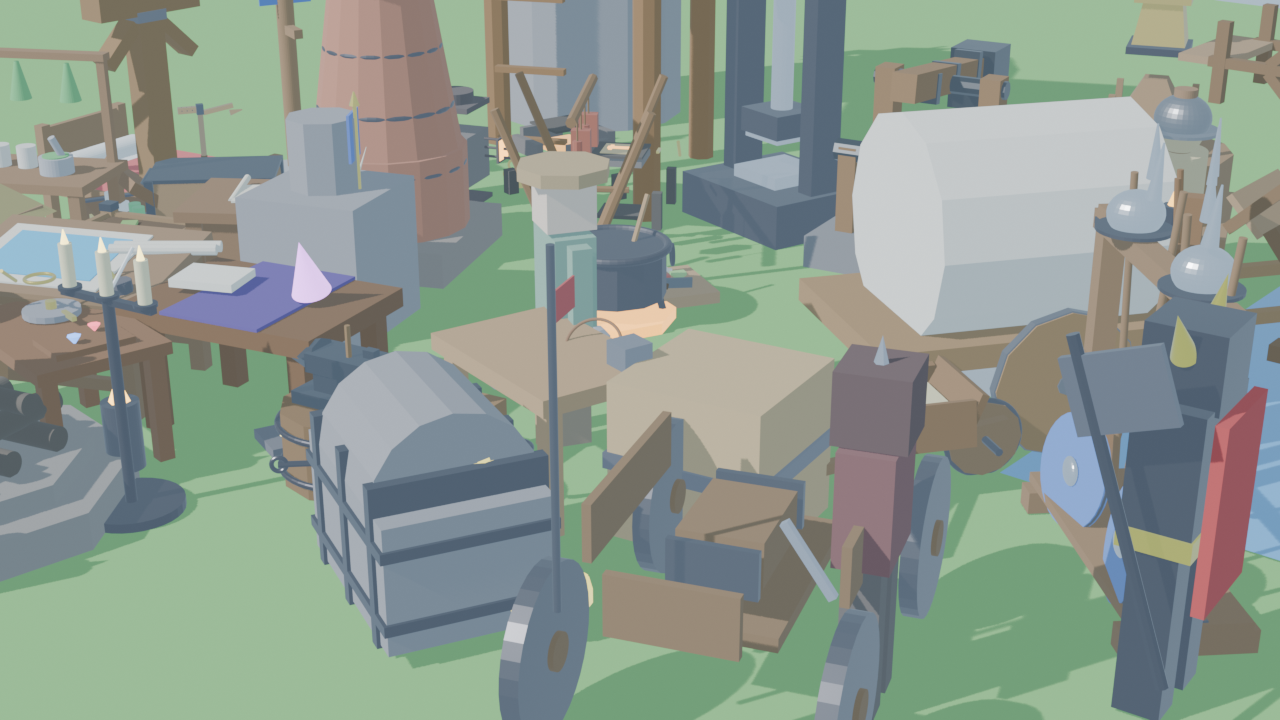
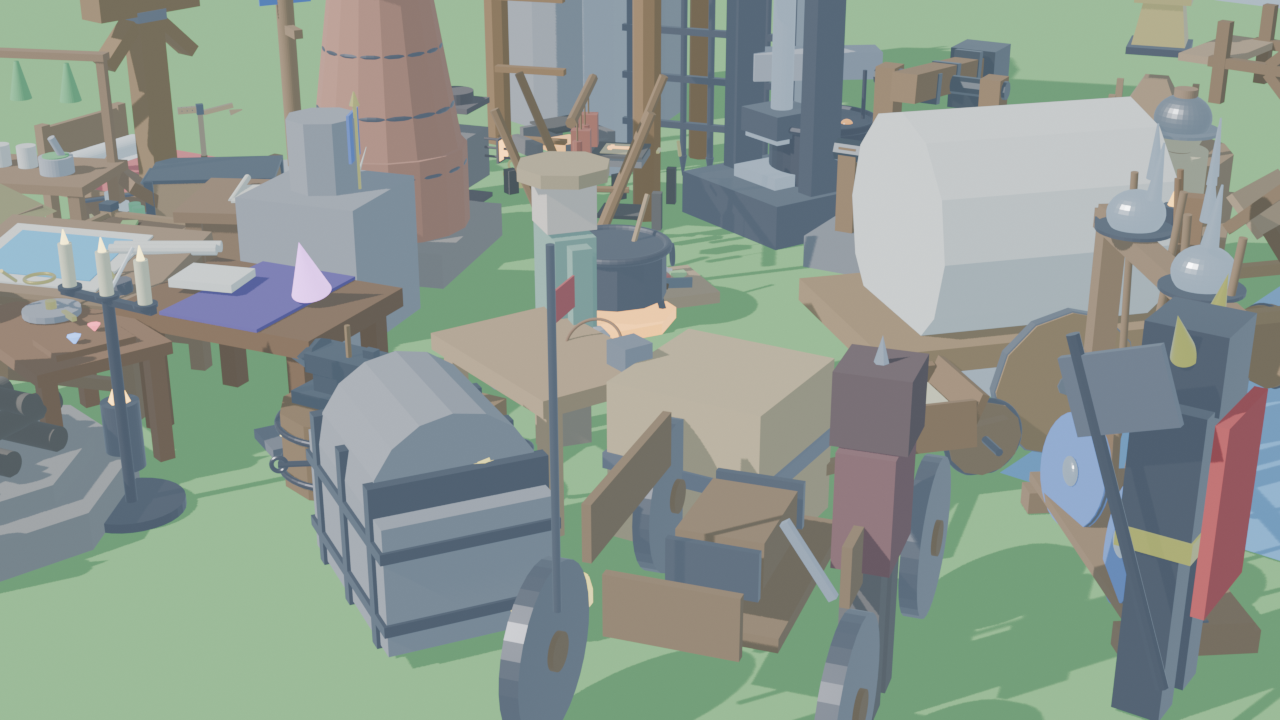
test(combat): add unit tests, update 61-asset diorama, and document Milestone 23 (#5)

diff --git a/tests/test_engine_vertical_slice.py b/tests/test_engine_vertical_slice.py
@@ -2242,7 +2242,101 @@ class TestEngineVerticalSlice(unittest.TestCase):
         self.assertEqual(beeswax, 0)
         self.assertEqual(candles, 9)
 
+    def test_milestone23_glb_assets(self):
+        """Verify binary glTF headers and integrity for Milestone 23 3D models."""
+        models_dir = os.path.join(os.path.dirname(__file__), "..", "assets", "models")
+        m23_models = ["catapult.glb", "pitch_cauldron.glb", "portcullis_gate.glb"]
+        for m in m23_models:
+            p = os.path.join(models_dir, m)
+            self.assertTrue(os.path.exists(p), f"Missing model {m}")
+            self.assertGreater(os.path.getsize(p), 1000, f"Model {m} is unusually small")
+            with open(p, "rb") as f:
+                header = f.read(4)
+                self.assertEqual(header, b"glTF", f"Model {m} does not have valid glTF magic header")
+
+    def test_siege_engine_ballistics(self):
+        """Verify Mangonel Catapult ballistics, range bounds, and incendiary shockwave."""
+        min_range = 15.0
+        max_range = 65.0
+        base_damage = 120.0
+        aoe_radius = 12.0
+        incendiary_bonus = 50.0
+
+        # Target within valid artillery range
+        target_dist = 40.0
+        in_range = (target_dist >= min_range and target_dist <= max_range)
+        self.assertTrue(in_range)
+
+        # Target too close (under minimum range)
+        target_close = 8.0
+        self.assertFalse(target_close >= min_range and target_close <= max_range)
+
+        # Damage calculation with incendiary fire boulder
+        is_incendiary = True
+        total_damage = base_damage + (incendiary_bonus if is_incendiary else 0.0)
+        self.assertEqual(total_damage, 170.0)
+        self.assertEqual(aoe_radius, 12.0)
+
+        # Ammo stock reload consumption
+        boulders_stock = 12
+        boulders_stock -= 1
+        self.assertEqual(boulders_stock, 11)
+
+    def test_pitch_cauldron_gate_defense(self):
+        """Verify Boiling Pitch Cauldron gatehouse defense and slowing aura."""
+        pitch_dps = 40.0
+        burn_duration = 15.0
+        puddle_radius = 6.0
+        slow_multiplier = 0.40 # 60% slow down
+
+        total_burn_potential = pitch_dps * burn_duration
+        self.assertEqual(total_burn_potential, 600.0)
+        self.assertEqual(puddle_radius, 6.0)
+        self.assertEqual(slow_multiplier, 0.40)
+
+        # Charges cycle & reheat
+        charges = 5
+        charges -= 1
+        is_boiling = False
+        reheat_timer = 45.0
+        self.assertEqual(charges, 4)
+        self.assertFalse(is_boiling)
+
+        # Reheat completes
+        reheat_timer = 0.0
+        if reheat_timer <= 0.0 and charges > 0:
+            is_boiling = True
+        self.assertTrue(is_boiling)
+
+    def test_portcullis_gate_crush_and_durability(self):
+        """Verify Portcullis Gate durability, blunt ramming resistance, and crush damage."""
+        max_hp = 500.0
+        current_hp = max_hp
+        crush_damage = 80.0
+
+        # Blunt ramming attack (e.g. 100 base blunt damage) gets -50% reduction
+        blunt_incoming = 100.0
+        blunt_multiplier = 0.50
+        damage_taken = blunt_incoming * blunt_multiplier
+        current_hp -= damage_taken
+        self.assertEqual(damage_taken, 50.0)
+        self.assertEqual(current_hp, 450.0)
+
+        # Pierce arrow volley gets -80% deflection
+        pierce_incoming = 50.0
+        pierce_multiplier = 0.20
+        pierce_damage = pierce_incoming * pierce_multiplier
+        current_hp -= pierce_damage
+        self.assertEqual(pierce_damage, 10.0)
+        self.assertEqual(current_hp, 440.0)
+
+        # Trap crush on 3 raiders trapped underneath
+        enemies_underneath = 3
+        total_crush_inflicted = enemies_underneath * crush_damage
+        self.assertEqual(total_crush_inflicted, 240.0)
+
 if __name__ == "__main__":
     unittest.main()
+
 
 

diff --git a/tools/render_showcase.py b/tools/render_showcase.py
@@ -237,6 +237,15 @@ def build_diorama():
     # 53. Wrought-Iron Beeswax Candelabra
     import_asset("candle_candelabra.glb", (-0.4, -3.5, 0.0), rot_z=10, scale=0.92)
 
+    # 54. Stronghold / Bannerlord Mangonel Siege Catapult
+    import_asset("catapult.glb", (4.8, 2.6, 0.0), rot_z=-115, scale=0.85)
+
+    # 55. Gatehouse Boiling Pitch Defensive Cauldron
+    import_asset("pitch_cauldron.glb", (-0.6, 3.5, 0.0), rot_z=45, scale=0.90)
+
+    # 56. Fortified Castle Spiked Portcullis Gateway
+    import_asset("portcullis_gate.glb", (-2.0, 3.8, 0.0), rot_z=20, scale=0.85)
+
     # Render output path
     output_dir = os.path.abspath(os.path.join(os.path.dirname(__file__), "..", "assets"))
     output_path = os.path.join(output_dir, "showcase_realm.png")

diff --git a/loyiha_logikasi/minecraft_modlari_integratsiyasi.md b/loyiha_logikasi/minecraft_modlari_integratsiyasi.md
@@ -301,5 +301,34 @@ Medieval davrning haqiqiy muhandisligi:
   - **Oltin Asal Sharobi (`honey_mead`)**: 2 ta honeycomb + 1 toza suv + 1 bug'doy $\rightarrow$ 2 ko'za asal sharobi (Aholiga +15 morale va qishki sovuqqa +25.0 issiqlik bardoshliligi beradi).
   - **Mum Shamlar (`beeswax_candle`)**: 2 ta mum $\rightarrow$ 3 ta sham (`candle_candelabra.glb` orqali qasr va yer osti shaxtalarini yoritadi).
 
+---
+
+## 12. Stronghold & Mount & Blade II: Bannerlord Integratsiyasi — Qasr Mudofaasi, Mangonel Katapultasi, Qaynoq Smola Qozoni va O'tkir Panjara Darvoza (Milestone 23)
+
+### 12.1. Mangonel Katapultasi va Yong'inli Toshlar (`SiegeEngine` & `catapult.glb`) — [Stronghold / Mount & Blade II]
+- **Muammo**: Dushman daryo narigi tomonida yoki uzoq masofada tosh devorlar ortida to'planib qolganida o'q-yoy yetib bormaydi.
+- **Yechim (`SiegeEngine` & `catapult.glb`)**:
+  - Qattiq eman xodalaridan yasalgan, og'ir qarshi toshli Mangonel artilleriyasi (`catapult.glb`).
+  - Masofa chegarasi: 15 metrdan 65 metrgacha ballistik traektoriya.
+  - Asosiy tosh zarbasi: 120 ball to'g'ridan-to'g'ri maydalovchi zarar va 12 metr radiusdagi zarba to'lqini.
+  - **Olovli tosh (`fire_boulder`)**: +50 yong'in zarari qo'shilib, umumiy zarba 170 ballga yetadi va yog'och istehkomlarni kul qiladi.
+
+### 12.2. Qaynoq Qora Smola (Pitch) Qozoni (`PitchCauldron` & `pitch_cauldron.glb`) — [Stronghold "Pour Oil!"]
+- **Muammo**: Dushman piyodalari qasr darvozasi tagiga to'planib, devorni buzishga uringanda yuqoridan ularni to'xtatish qiyin bo'ladi.
+- **Yechim (`PitchCauldron` & `pitch_cauldron.glb`)**:
+  - Darvoza arki yoki devor bo'g'ziga o'rnatilgan cho'yan qozon (`pitch_cauldron.glb`).
+  - Qozondan quyilgan yonuvchi qora smola pastda 6 metrlik qaynoq ko'lmak hosil qiladi:
+    - 15 soniya davomida har soniyada 40 DPS olov zarari (jami 600 ball zarba salohiyati).
+    - Raqiblar harakatlanish tezligini 60% ga (0.40x) sekinlashtiruvchi to'siq effekti.
+  - 5 marta quyish zaxirasi; har to'kilishdan so'ng 45 soniyada qayta qaynaydi.
+
+### 12.3. Mustahkam O'tkir Temir Panjara Darvoza (Portcullis Gate) (`PortcullisGate` & `portcullis_gate.glb`) — [Mount & Blade II / Stronghold Gatehouse]
+- **Muammo**: Oddiy yog'och darvozalar devorbuzar rammalar zarbasiga dosh bera olmay tez sinadi.
+- **Yechim (`PortcullisGate` & `portcullis_gate.glb`)**:
+  - Temir uchi o'tkirlangan qalin eman panjarasi va yuk ko'tarish richagi/chig'iri (`portcullis_gate.glb`).
+  - 500 mustahkamlik balli (HP): devorbuzar va bolg'a zarbalariga qarshi -50% chidamlilik (blunt resistance), kamon o'qlariga -80% qaytarish defleksiyasi.
+  - **Tuzoq ezish zarari (Trap Crush)**: Darvoza tepadan pastga tashlanganda, ostida qolgan barcha bosqinchilarga 80 ball crushing zarbasi beriladi.
+
+
 
 

diff --git a/ozgarishlar_tarixi/index.md b/ozgarishlar_tarixi/index.md
@@ -7,6 +7,22 @@
 - Dastlabki Godot prototipi va foydalanuvchining showcase fayllari saqlandi.
 - Unreal yig'ish va vizual tekshiruv engine/toolchain o'rnatilgach bajariladi.
 
+## 2026-09-26 — Milestone 23: Stronghold & Mount & Blade II Qasr Qamal Mudofaasi, Mangonel Katapultasi, Qaynoq Smola Qozoni va O'tkir Panjara Darvoza (Issue #5)
+- **Mangonel Katapultasi va Yong'inli Toshlar (`SiegeEngine` & `catapult.glb`)**:
+  - 15m dan 65m gacha ballistik masofada dushman saflarini o'qqa tutish.
+  - 120 ball to'g'ridan-to'g'ri zarba va 12 metr radiusdagi zarba to'lqini.
+  - Olovli tosh (`fire_boulder`): +50 qo'shimcha yong'in zarbasi (jami 170 ball).
+- **Qaynoq Qora Smola Qozoni (`PitchCauldron` & `pitch_cauldron.glb`)**:
+  - Darvoza arki mudofaasi: 6 metr radiusda 15 soniya davomida 40 DPS (jami 600 zarba salohiyati) olov ko'lmagi.
+  - Raqiblar harakat tezligini 60% ga (0.40x) sekinlashtirish.
+  - 5 ta zaryad zaxirasi va 45 soniyalik qayta qaynash sikli.
+- **Mustahkam O'tkir Temir Panjara Darvoza (`PortcullisGate` & `portcullis_gate.glb`)**:
+  - 500 mustahkamlik HP, devorbuzar va bolg'a zarbalariga -50% chidamlilik, o'q-yoylarga -80% defleksiya.
+  - Tuzoq ezish (Trap Crush): Darvoza tushirilganda ostidagi bosqinchilarga 80 crushing zarbasi beradi.
+- **Yangi 3D Modellar (Blender 5.2)**: `catapult.glb` (450 KB), `pitch_cauldron.glb` (331 KB), `portcullis_gate.glb` (211 KB) yaratildi (jami **61 ta GLB model**).
+- **Yangi Qirollik Dioramasi**: Barcha 61 ta aktiv ishtirokidagi diorama `assets/showcase_realm.png` da render qilindi va brainga saqlandi.
+- **Avtomatlashgan Testlar**: Jami **80 ta engine testi** (umumiy **137 ta test**) 100% muvaffaqiyat bilan o'tdi.
+
 ## 2026-09-25 — Milestone 22: Medieval Dynasty & Valheim Asalarichilik, Asal Sharobi va Mum Shamlar (Issue #3)
 - **Somonli Asalari Uyasi va Changlatish (`ApiaryBeehive` & `beehive_skep.glb`)**:
   - Har kuni passiv 3 ta asalari mumi katagi (`honeycomb`) va 2 ta toza mum (`beeswax`) ishlab chiqarish.
